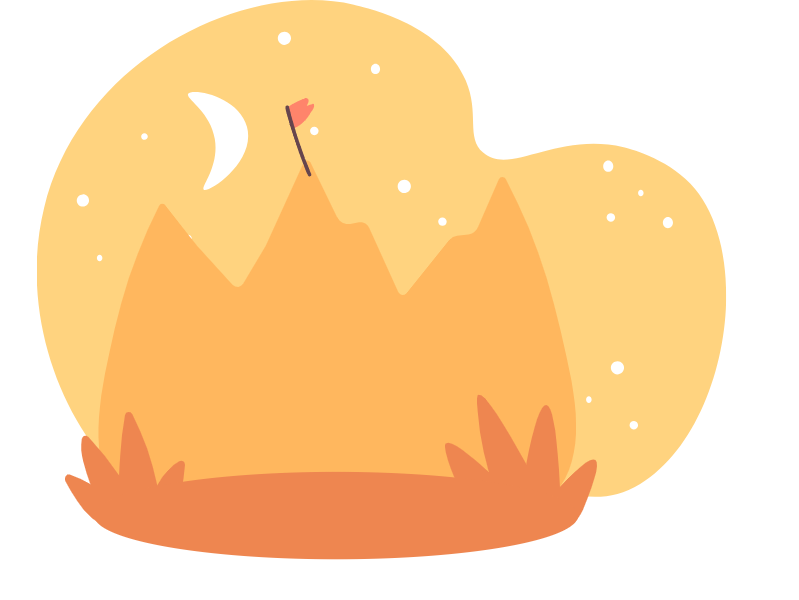
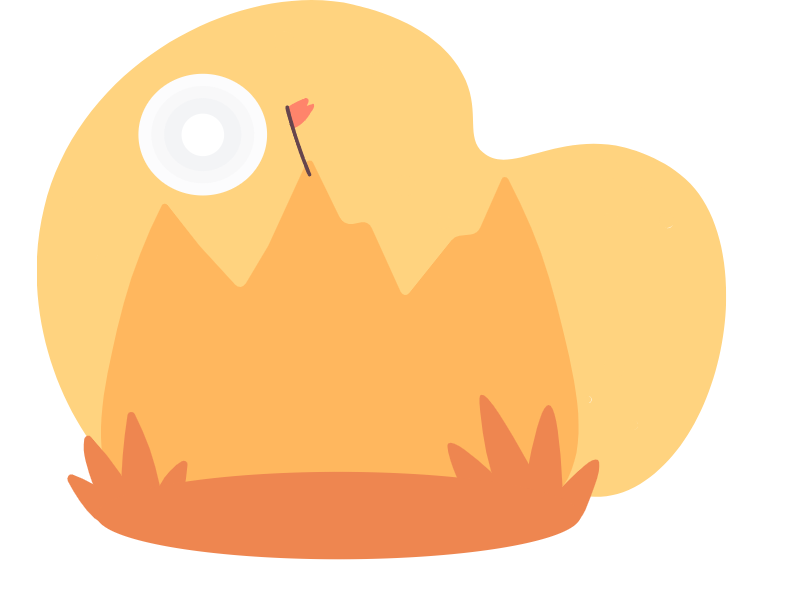
themes.dart update
Working on some more details here and there

diff --git a/thirty_1.0/thirty/lib/pages/welcome.dart b/thirty_1.0/thirty/lib/pages/welcome.dart
@@ -84,10 +84,16 @@ class _WelcomeScreenState extends State<WelcomeScreen> {
         child: Stack(
           children: <Widget>[
             Positioned(
-              top: themes.getPosition(
-                  context, true, "welcomeBackgroundImagePosition"),
-              left: themes.getPosition(
-                  context, false, "welcomeBackgroundImagePosition"),
+              top: themes.checkDarkTheme(context)
+                  ? themes.getPosition(
+                      context, true, "welcomeBackgroundDarkThemeImagePosition")
+                  : themes.getPosition(context, true,
+                      "welcomeBackgroundLightThemeImagePosition"),
+              left: themes.checkDarkTheme(context)
+                  ? themes.getPosition(
+                      context, false, "welcomeBackgroundDarkThemeImagePosition")
+                  : themes.getPosition(context, false,
+                      "welcomeBackgroundLightThemeImagePosition"),
               child: interfaceStandards.parentCenter(
                 context,
                 Image(

diff --git a/thirty_1.0/thirty/lib/standards/themes.dart b/thirty_1.0/thirty/lib/standards/themes.dart
@@ -191,8 +191,11 @@ extension CustomPositions on MaterialTapTargetSize {
   double position({String selection, bool isTop}) {
     switch (selection) {
       //case 'name': return isTop? 'top' : 'left'; break;
-      case "welcomeBackgroundImagePosition":
-        return isTop ? -0.125 : -0.2;
+      case "welcomeBackgroundLightThemeImagePosition":
+        return isTop ? -0.1325 : -0.2;
+        break;
+      case "welcomeBackgroundDarkThemeImagePosition":
+        return isTop ? -0.095 : 0.3;
         break;
       case "welcomeTitlePosition":
         return isTop ? 0.0875 : null;
